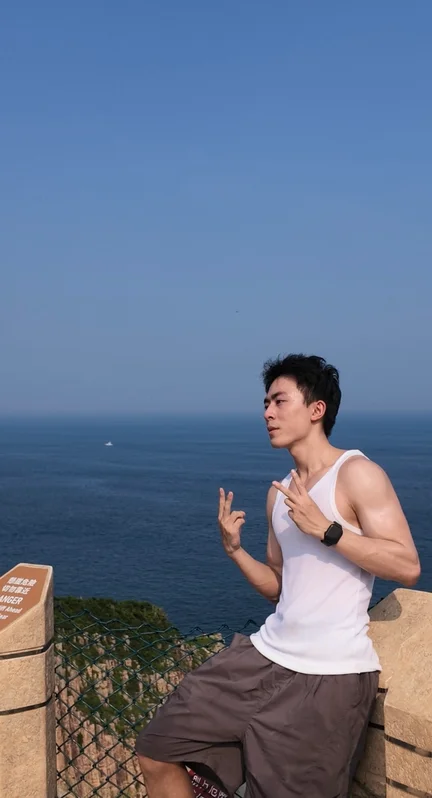
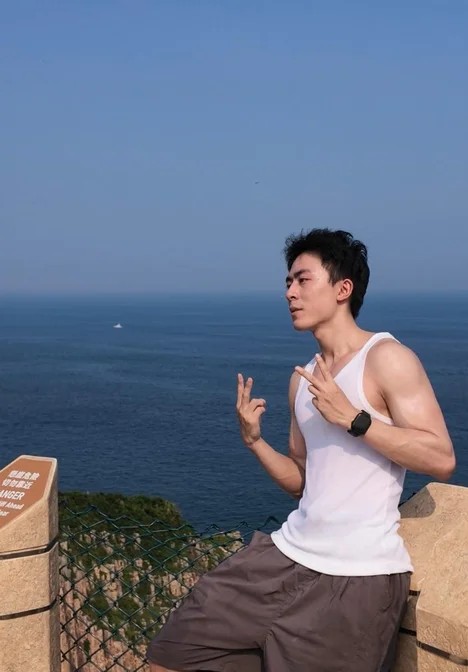
Refresh the homepage portrait with a subtle frame

Changed region(s): [[0.0, 0.3125, 1.0, 1.0]]

diff --git a/src/site.css b/src/site.css
@@ -68,12 +68,17 @@ nav a[aria-current], nav a:hover { color: var(--accent); text-decoration: underl
 .entry a { text-decoration: none; }
 .entry a:hover { text-decoration: underline; }
 .entry p { color: var(--muted); margin-top: .3rem; font-size: .94rem; }
-.profile-portrait {
-  display: block;
-  width: min(144px, 100%);
-  height: auto;
+.portrait-frame {
+  width: min(156px, 100%);
   margin-block-start: 1rem;
+  padding: 5px;
+  border: 1px solid var(--line);
+  border-radius: 8px;
+  background: #fffdf9;
+  box-shadow: 0 2px 9px rgb(36 32 29 / 8%);
 }
+
+.profile-portrait { display: block; width: 100%; height: auto; }
 
 .news .entry { grid-template-columns: minmax(0, 1fr); padding-block: 1.2rem; }
 .news-figure { display: block; width: min(224px, 100%); }
@@ -97,12 +102,12 @@ nav a[aria-current], nav a:hover { color: var(--accent); text-decoration: underl
 @media (min-width: 760px) {
   .profile {
     display: grid;
-    grid-template-columns: minmax(0, 1fr) 144px;
+    grid-template-columns: minmax(0, 1fr) 156px;
     gap: 2.15rem;
     align-items: start;
   }
 
-  .profile-portrait { margin-block-start: .35rem; }
+  .portrait-frame { margin-block-start: .35rem; }
   .news .entry { grid-template-columns: 224px minmax(0, 1fr); gap: 1.5rem; align-items: center; }
 }
 
